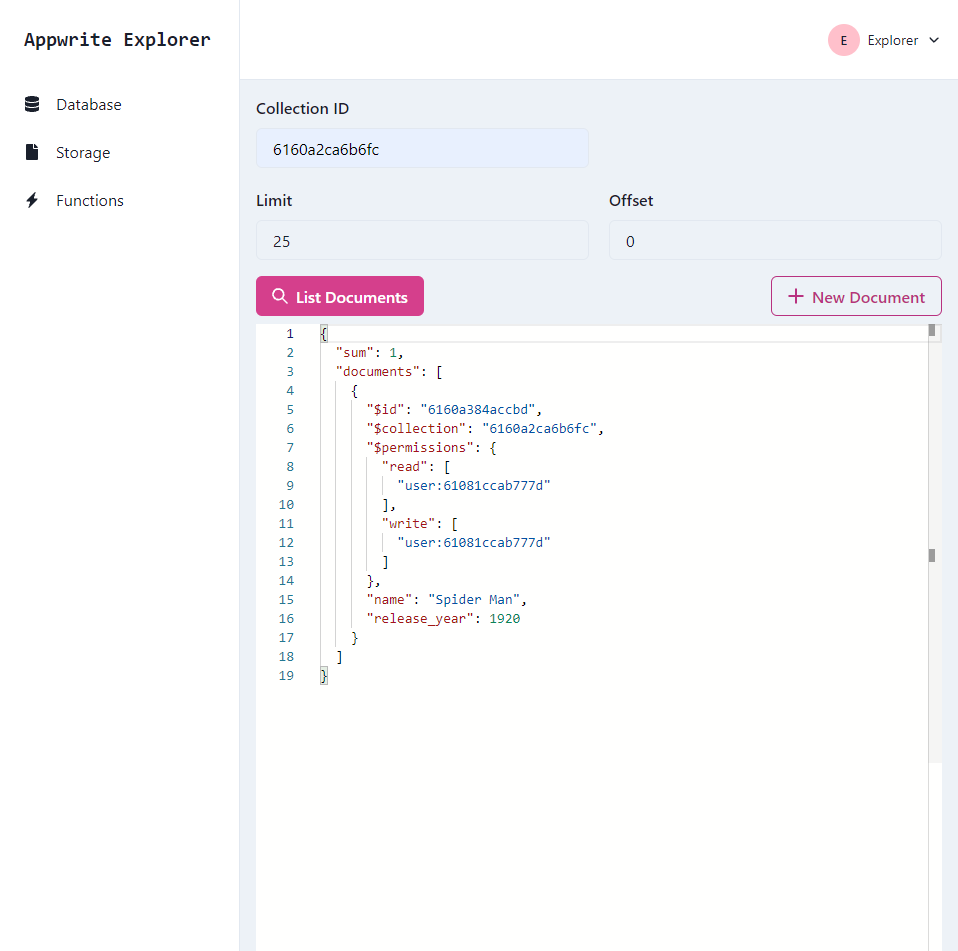
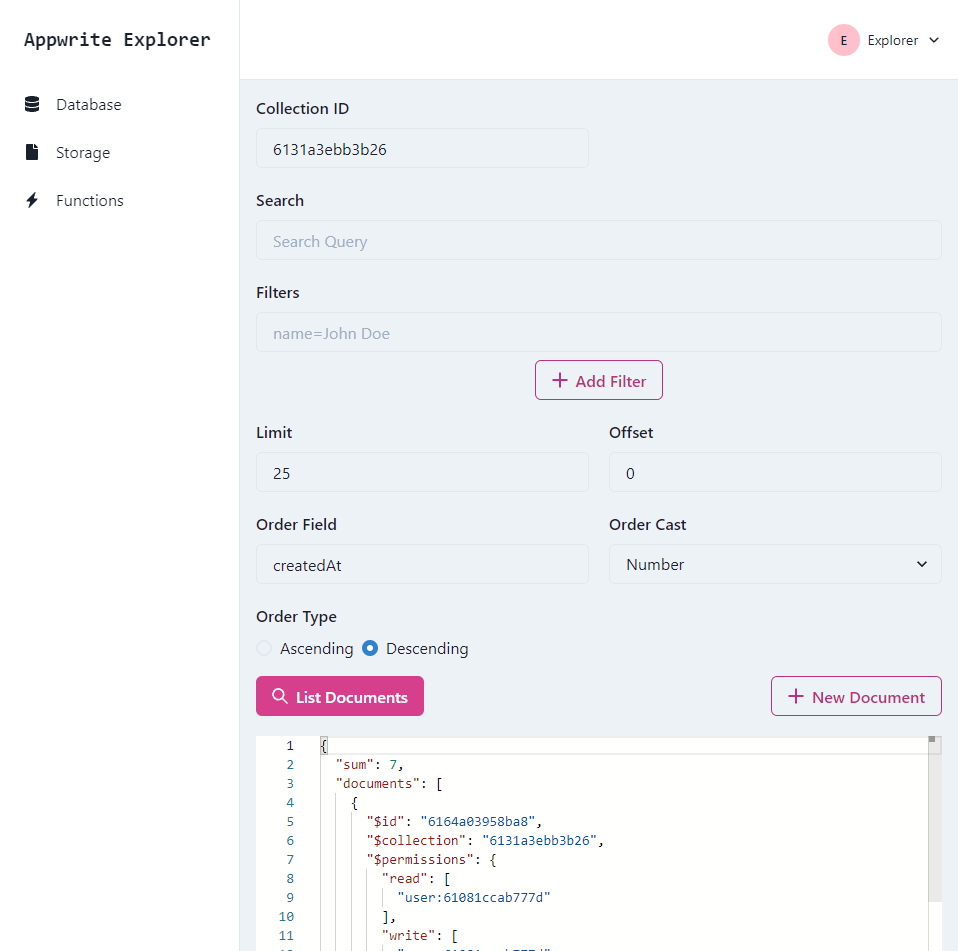
Update docs

diff --git a/README.md b/README.md
@@ -27,8 +27,8 @@ Appwrite Explorer is a tool that let's you explore different aspects of an Appwr
 - [x] Create Document
 - [x] List Documents
 - [ ] Update Document
-- [ ] Filter Documents List
-- [ ] Search Documents
+- [x] Filter Documents List
+- [x] Search Documents
 - [ ] Delete Document
 
 ## Storage
